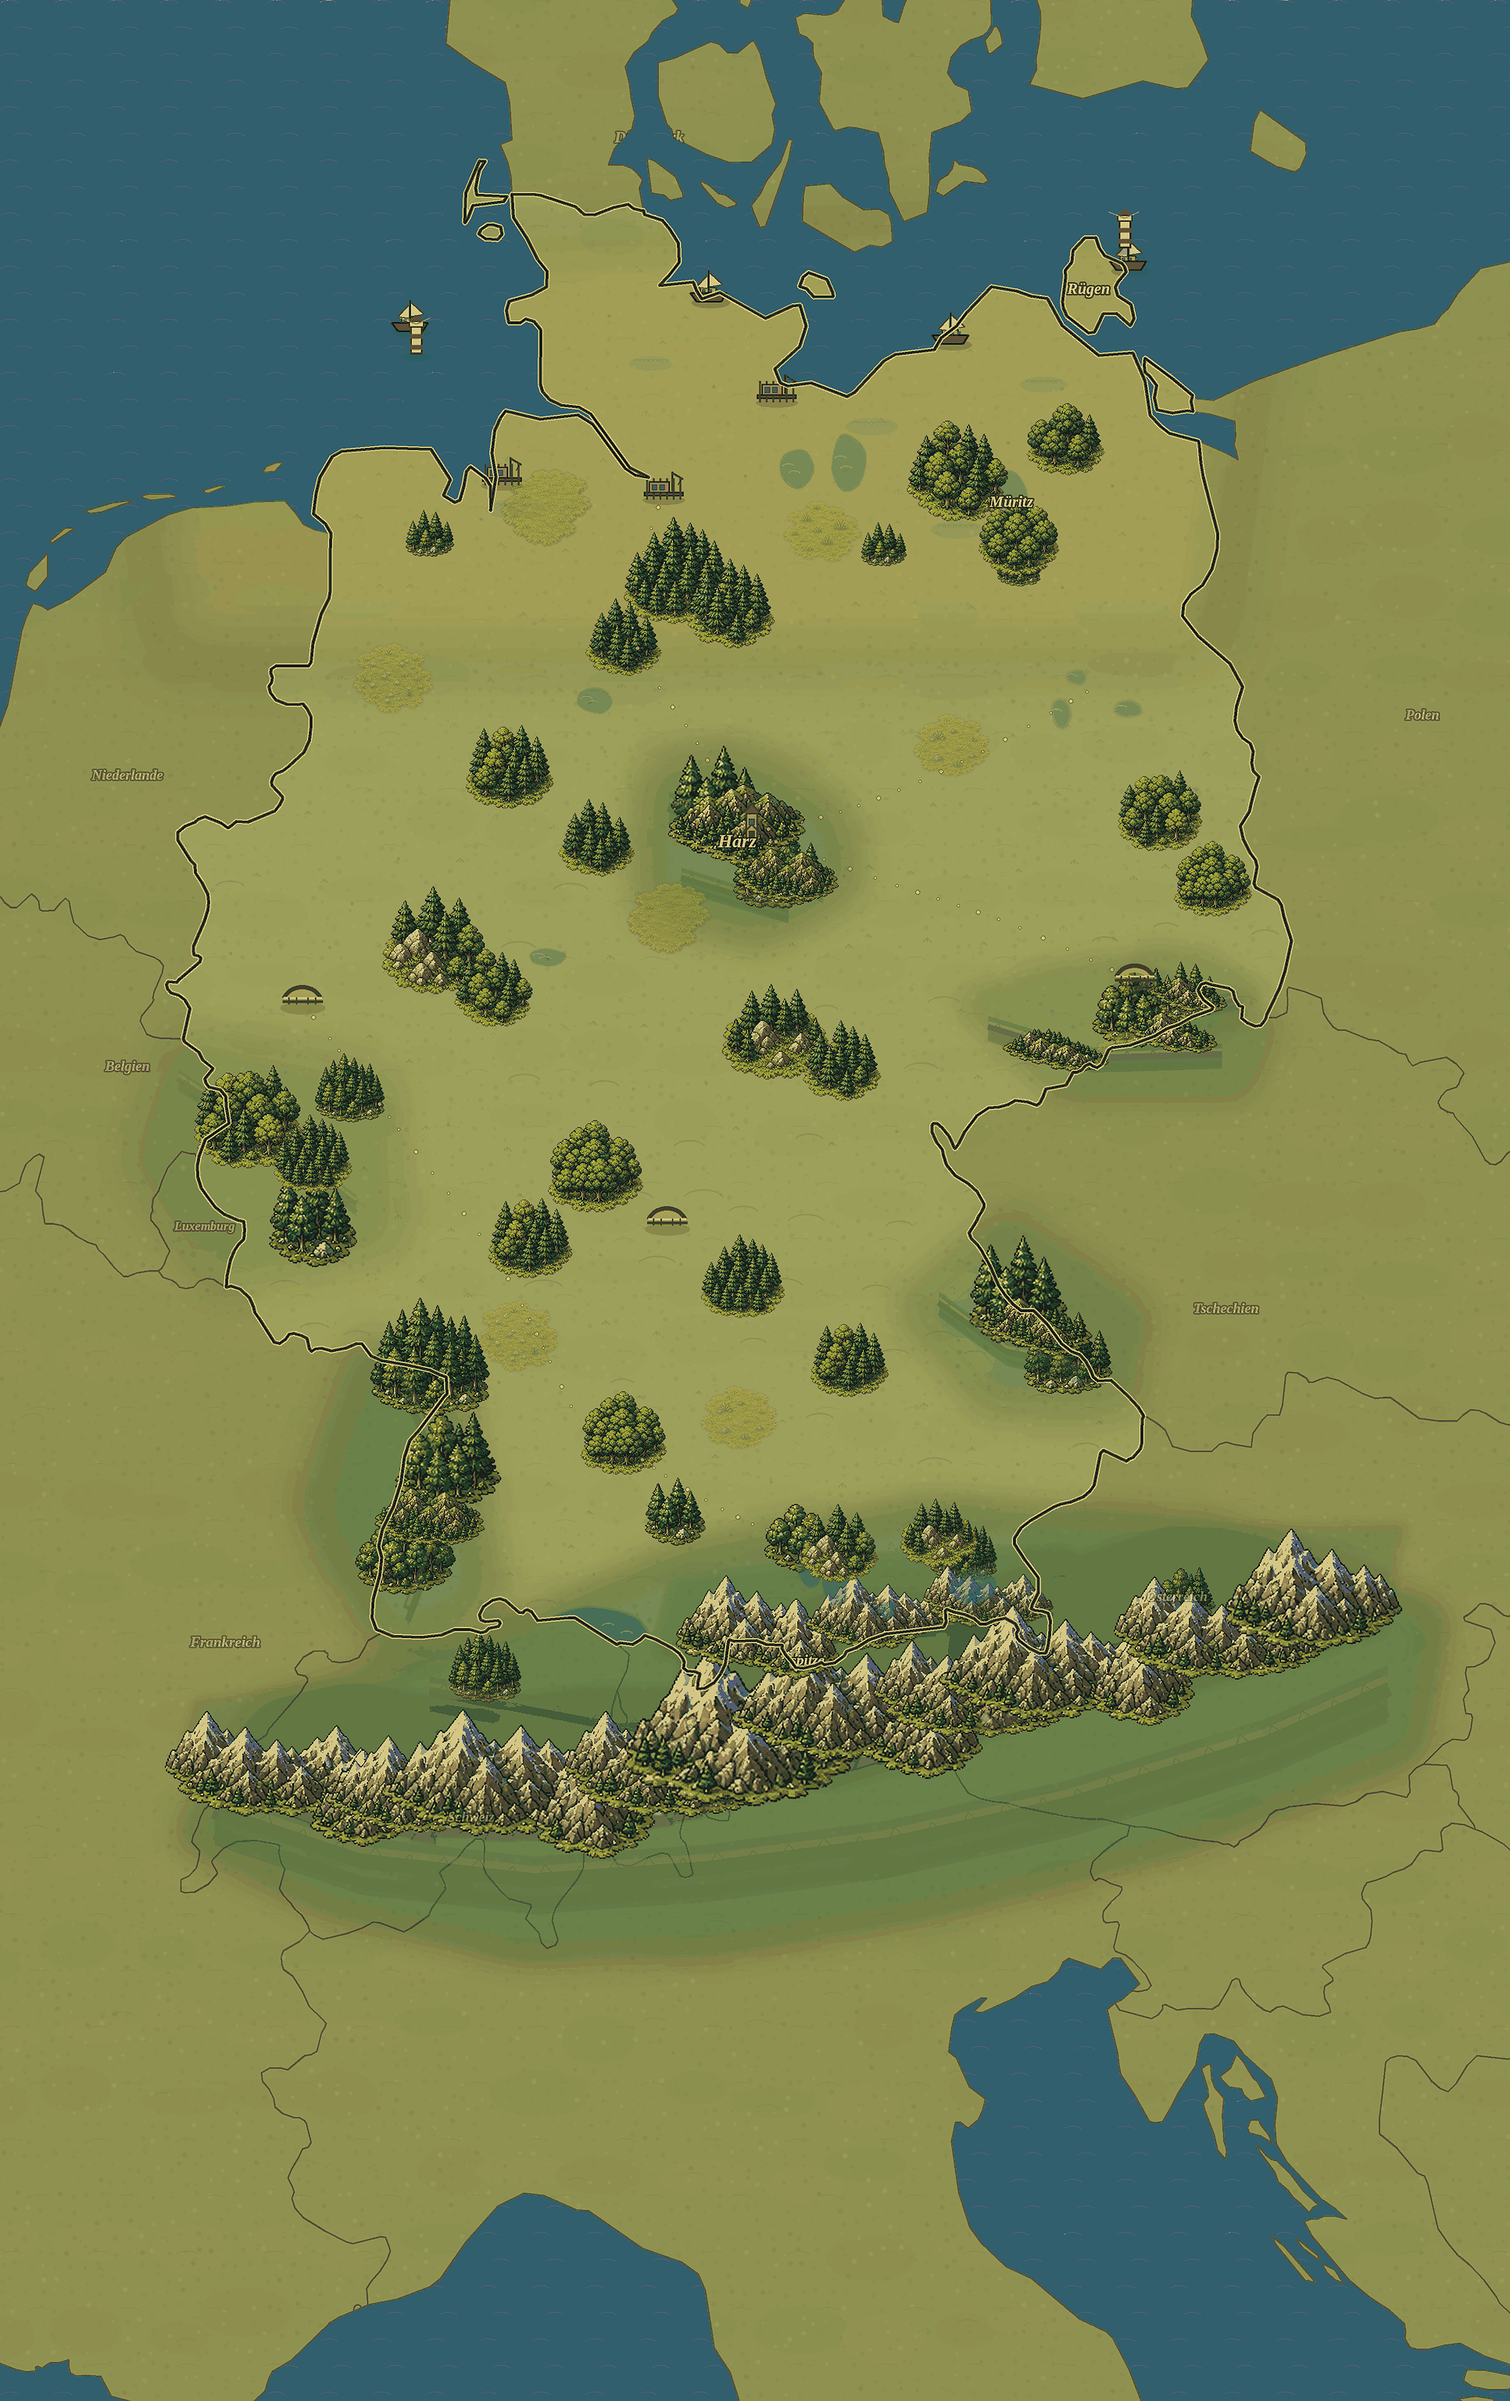
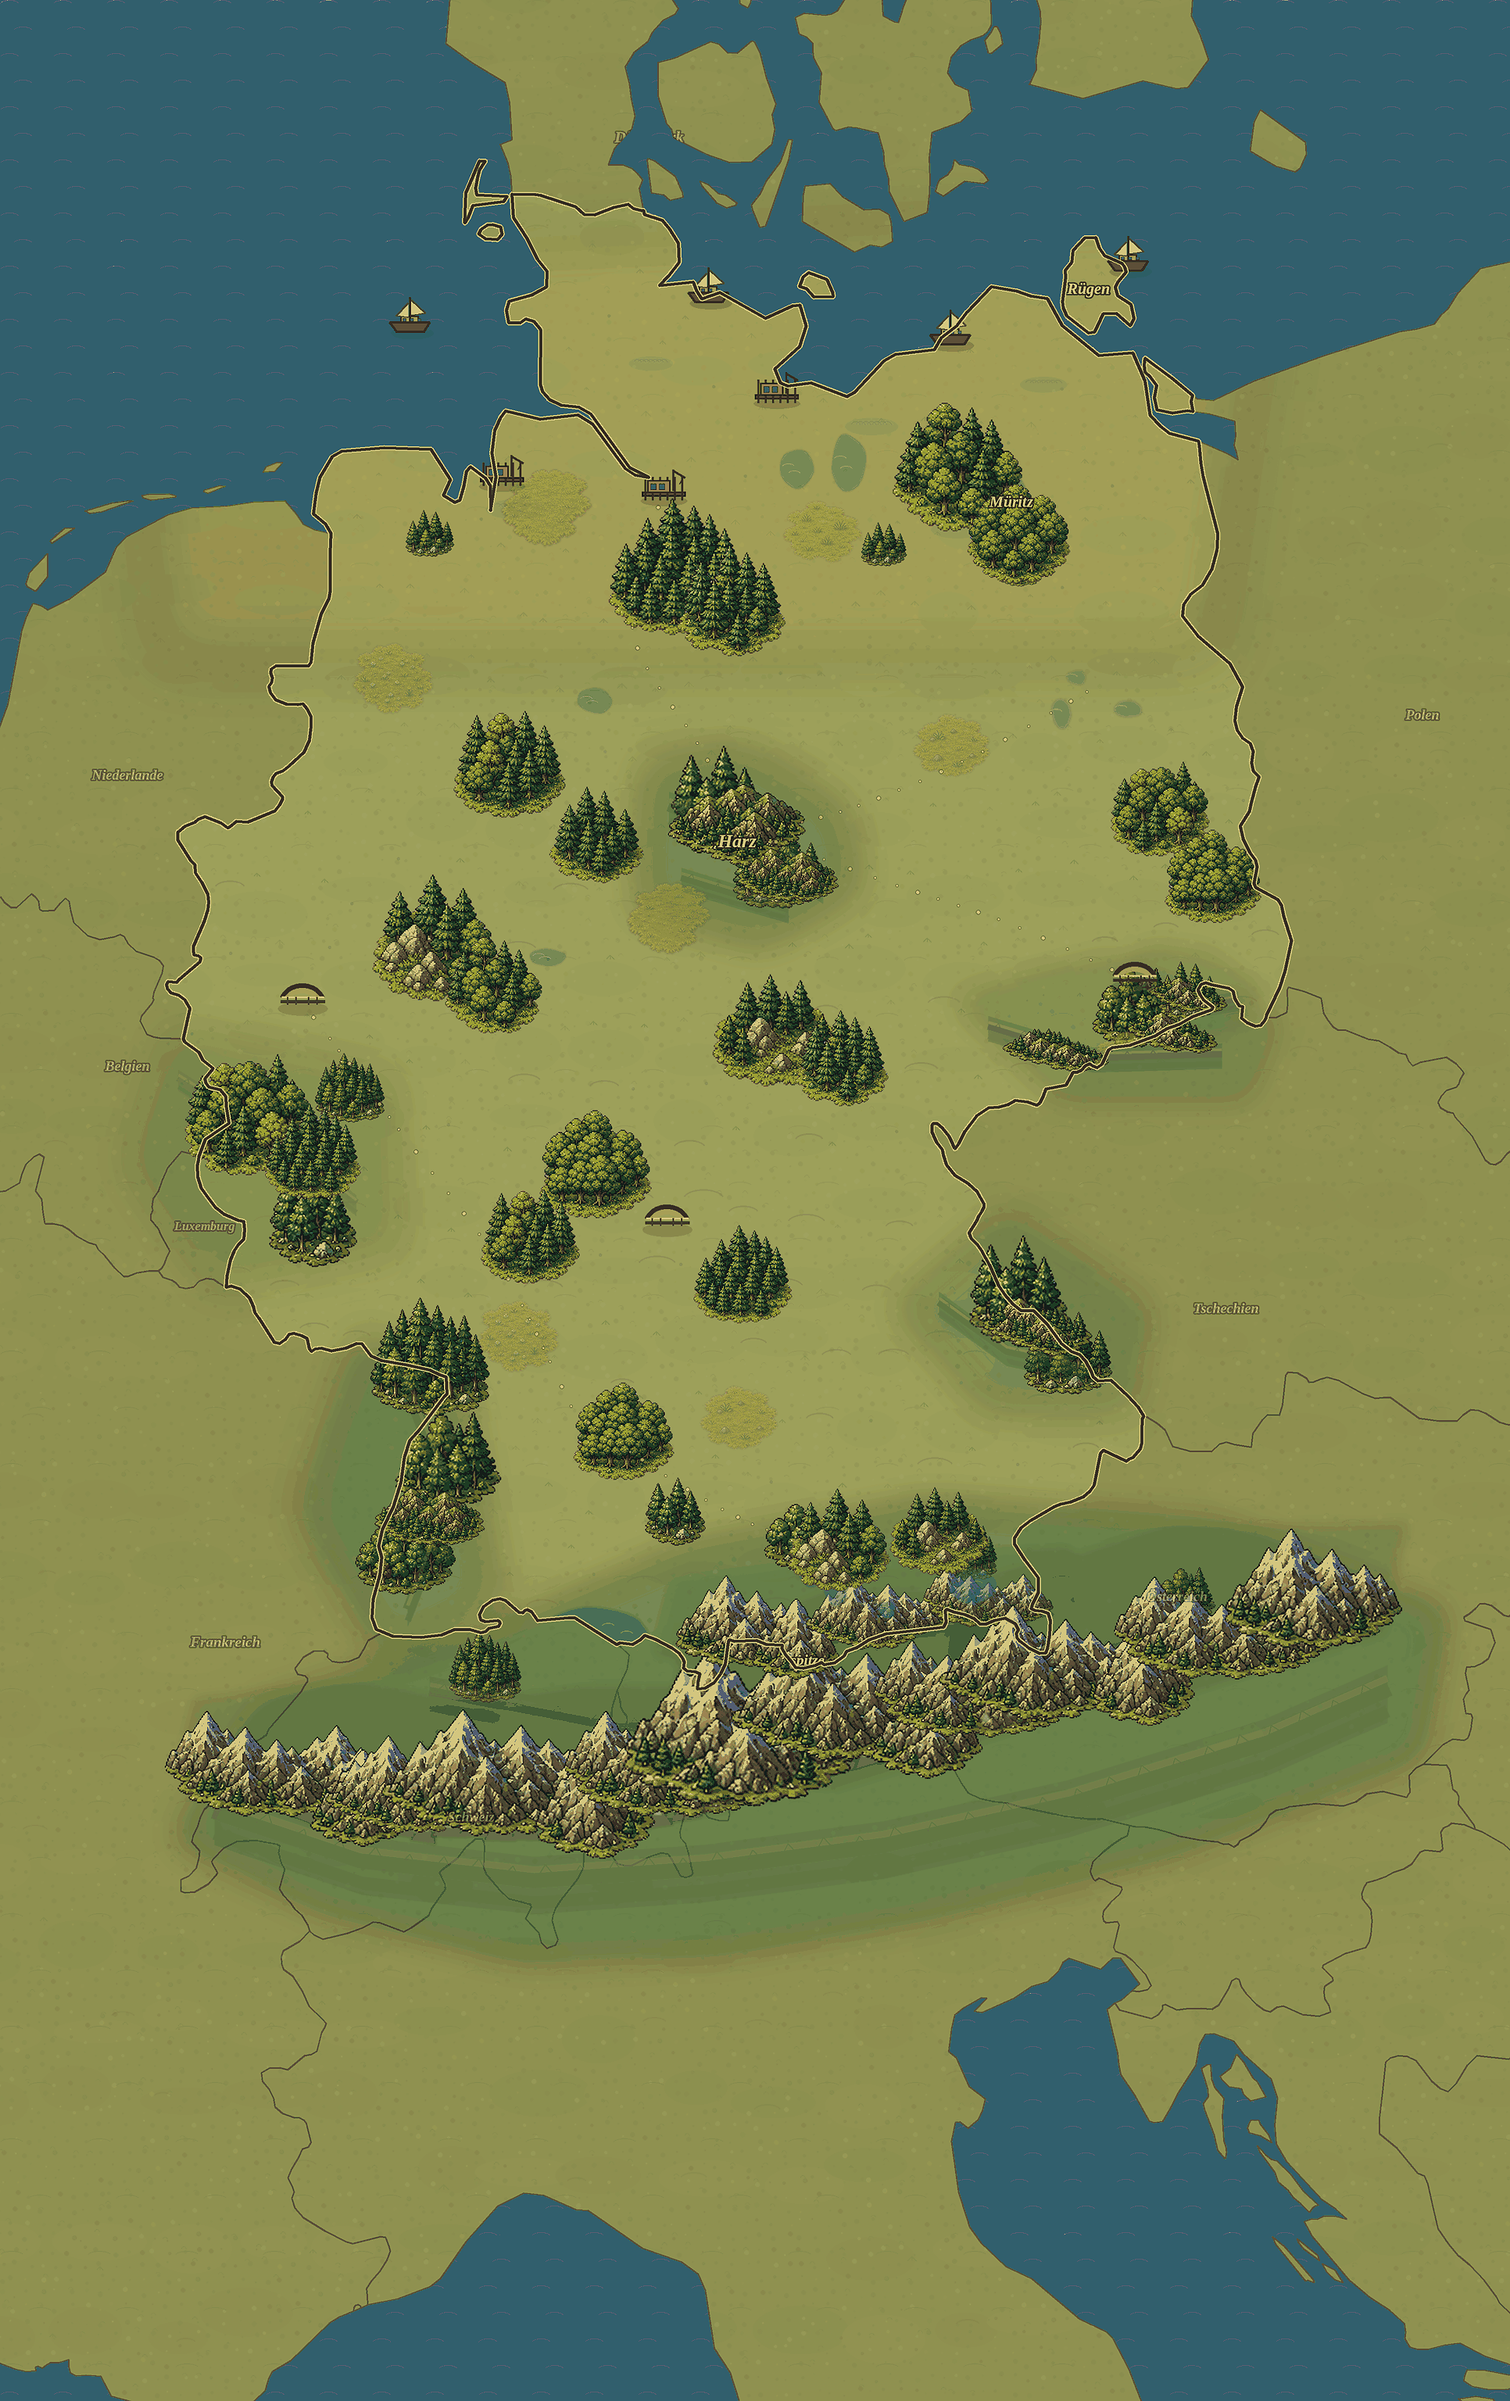
Reduce default map clutter

diff --git a/map_pipeline/compose_map.py b/map_pipeline/compose_map.py
@@ -39,8 +39,9 @@ NAMED_WATER_HIGHLIGHT = (139, 184, 181, 54)
 FOREST_SPRITE_CACHE = {}
 GLYPH_CACHE = {}
 FONT_CACHE = {}
-FOREST_MASS_VISUAL_SCALE = 1.32
-FOREST_MASS_MIN_WIDTH = 112
+FOREST_MASS_VISUAL_SCALE = 1.55
+FOREST_MASS_MIN_WIDTH = 138
+FOREST_CLUSTER_MIN_SOURCE_WIDTH = 86
 LAND_DETAIL_VISUAL_SCALE = 0.74
 LAND_DETAIL_ALPHA_SCALE = 0.48
 LAND_DETAIL_TINT_STRENGTH = 0.28
@@ -479,18 +480,16 @@ ATLAS_FOREST_MASSES = [
         "id": "lueneburg_heath",
         "label": "Lueneburg Heath",
         "clusters": [
-            ("atlas_forest_pine_dense", 10.02, 53.03, 118),
-            ("atlas_forest_pine_round", 10.46, 52.88, 98),
-            ("atlas_forest_pine_small", 9.58, 52.72, 78),
+            ("atlas_forest_pine_dense", 10.02, 53.03, 128),
+            ("atlas_forest_pine_round", 10.46, 52.88, 104),
         ],
     },
     {
         "id": "mecklenburg_lake_forests",
         "label": "Mecklenburg Lake District forests",
         "clusters": [
-            ("atlas_forest_mixed_large", 12.30, 53.52, 110),
-            ("atlas_forest_broadleaf_round", 12.80, 53.22, 88),
-            ("atlas_forest_mixed_small", 13.18, 53.70, 76),
+            ("atlas_forest_mixed_large", 12.30, 53.52, 120),
+            ("atlas_forest_broadleaf_round", 12.80, 53.22, 96),
         ],
     },
     {
@@ -498,15 +497,15 @@ ATLAS_FOREST_MASSES = [
         "label": "Spreewald and Lausitz",
         "clusters": [
             ("atlas_forest_mixed_wide", 13.95, 51.86, 92),
-            ("atlas_forest_deciduous_dense", 14.38, 51.52, 82),
+            ("atlas_forest_deciduous_dense", 14.38, 51.52, 90),
         ],
     },
     {
         "id": "teutoburg_weser",
         "label": "Teutoburg and Weser uplands",
         "clusters": [
-            ("atlas_forest_mixed_tall", 8.65, 52.08, 96),
-            ("atlas_forest_pine_small", 9.36, 51.72, 78),
+            ("atlas_forest_mixed_tall", 8.65, 52.08, 104),
+            ("atlas_forest_pine_small", 9.36, 51.72, 90),
         ],
     },
     {
@@ -514,7 +513,7 @@ ATLAS_FOREST_MASSES = [
         "label": "Sauerland and Rothaar",
         "clusters": [
             ("atlas_forest_rocky_mixed", 8.05, 51.18, 118),
-            ("atlas_forest_mixed_large", 8.52, 50.96, 82),
+            ("atlas_forest_mixed_large", 8.52, 50.96, 90),
         ],
     },
     {
@@ -547,15 +546,14 @@ ATLAS_FOREST_MASSES = [
         "clusters": [
             ("atlas_forest_pine_dense", 10.55, 49.45, 92),
             ("atlas_forest_deciduous_dense", 9.58, 48.62, 94),
-            ("atlas_forest_mixed_tall", 11.42, 49.02, 78),
         ],
     },
     {
         "id": "upper_bavaria_foothills",
         "label": "Upper Bavaria foothill forests",
         "clusters": [
-            ("atlas_forest_rocky_mixed", 11.34, 48.02, 86),
-            ("atlas_forest_rocky_pine", 12.15, 48.10, 84),
+            ("atlas_forest_rocky_mixed", 11.34, 48.02, 96),
+            ("atlas_forest_rocky_pine", 12.15, 48.10, 92),
         ],
     },
 ]
@@ -584,8 +582,8 @@ ATLAS_DETAIL_KIND_SCALE = {
     "watermill": 1.55,
     "windmill": 1.55,
 }
-MIN_ATLAS_DETAIL_WIDTH = 78
-DEFAULT_ATLAS_DETAIL_KINDS = {"bridge", "lighthouse", "port", "ship", "tower"}
+MIN_ATLAS_DETAIL_WIDTH = 86
+DEFAULT_ATLAS_DETAIL_KINDS = {"bridge", "port", "ship"}
 
 
 def audit_geography_layers():
@@ -663,8 +661,8 @@ def audit_geography_layers():
             _audit_point(errors, bounds_poly, lon, lat, f"forest:{forest_mass['id']}:{glyph_name}")
             if not str(glyph_name).startswith("atlas_forest_"):
                 errors.append(f"forest mass {forest_mass['id']} uses non-forest glyph {glyph_name}")
-            if width < 70:
-                errors.append(f"forest mass {forest_mass['id']} cluster {glyph_name} is too small to read")
+            if width < FOREST_CLUSTER_MIN_SOURCE_WIDTH:
+                errors.append(f"forest mass {forest_mass['id']} cluster {glyph_name} is too small for the default map")
     for glyph_name, lon, lat, width in ATLAS_LAND_DETAIL_PATCHES:
         _audit_point(errors, bounds_poly, lon, lat, f"land detail:{glyph_name}")
         if not str(glyph_name).startswith("atlas_land_"):

diff --git a/tests/test_map_panel_contract.py b/tests/test_map_panel_contract.py
@@ -444,8 +444,8 @@ class MapPanelContractTest(unittest.TestCase):
             "if BAKED_TOWN_DETAILS_ENABLED:",
             "for lon, lat, size in BAKED_TOWN_DETAILS:",
             "ATLAS_DETAILS = [",
-            "MIN_ATLAS_DETAIL_WIDTH = 78",
-            "DEFAULT_ATLAS_DETAIL_KINDS = {\"bridge\", \"lighthouse\", \"port\", \"ship\", \"tower\"}",
+            "MIN_ATLAS_DETAIL_WIDTH = 86",
+            "DEFAULT_ATLAS_DETAIL_KINDS = {\"bridge\", \"port\", \"ship\"}",
             "def audit_geography_layers():",
             "CITY_LANDMARK_PLACEMENT_AUDITS = [",
             '"name": "Rostock"',
@@ -481,8 +481,9 @@ class MapPanelContractTest(unittest.TestCase):
             "def _draw_atlas_dotted_route(draw, points, step):",
             "_draw_atlas_routes(canvas, proj, germany_mask)",
             "ATLAS_FOREST_MASSES = [",
-            "FOREST_MASS_VISUAL_SCALE = 1.32",
-            "FOREST_MASS_MIN_WIDTH = 112",
+            "FOREST_MASS_VISUAL_SCALE = 1.55",
+            "FOREST_MASS_MIN_WIDTH = 138",
+            "FOREST_CLUSTER_MIN_SOURCE_WIDTH = 86",
             "LAND_DETAIL_VISUAL_SCALE = 0.74",
             "LAND_DETAIL_ALPHA_SCALE = 0.48",
             "LAND_DETAIL_TINT_STRENGTH = 0.28",
@@ -496,6 +497,8 @@ class MapPanelContractTest(unittest.TestCase):
             "ATLAS_LAND_DETAIL_PATCHES = [",
             '"atlas_land_grass_patch"',
             '"atlas_land_flower_meadow"',
+            "if width < FOREST_CLUSTER_MIN_SOURCE_WIDTH:",
+            "forest mass {forest_mass['id']} cluster {glyph_name} is too small for the default map",
             "def _draw_atlas_forest_masses(canvas, proj, land_mask):",
             "display_width = max(FOREST_MASS_MIN_WIDTH, int(width * FOREST_MASS_VISUAL_SCALE))",
             "def _draw_atlas_land_detail_patches(canvas, proj, germany_mask):",

diff --git a/docs/active-map-backlog.md b/docs/active-map-backlog.md
@@ -90,6 +90,7 @@
 - [ ] Визуально откалибровать `mountain_glyphs` по реальным relief extents: automated audit теперь ловит грубые ошибки placement, но scale/edge/art still need human screenshot/geography review; Harz/Erzgebirge/Black Forest/Bavarian Forest не должны расползаться за свои области.
 - [ ] REGRESSION / Harz readability: Harz сейчас слишком маленький и незаметный среди налепленных деталей. Для readability его можно сделать визуально крупнее/сильнее, чем буквальный масштаб, но центр должен оставаться географически правильным, чтобы было быстро понятно: "здесь Harz, здесь есть канатные дороги".
 - [x] Harz readability first pass: Harz polygon/fill/ridge bands/glyphs усилены и центрированы вокруг реального региона; castle-like house details убраны из default underlay, чтобы Harz не терялся в мелком шуме. Оставить regression открытым до mobile review, потому что транспортный cluster всё ещё частично перекрывает Harz label.
+- [x] #72 Bounded clutter pass: default atlas details теперь оставляют только крупные `bridge`/`port`/`ship` landmarks, `MIN_ATLAS_DETAIL_WIDTH` поднят до `86`, forest masses укрупнены до `FOREST_MASS_VISUAL_SCALE = 1.55` / `FOREST_MASS_MIN_WIDTH = 138`, а мелкие forest clusters ниже `86` source px запрещены audit-ом или удалены.
 - [ ] Унифицировать размер подписей городов: кроме Berlin как столицы, остальные city labels должны быть примерно одного визуального ранга. Если подпись слишком длинная или перегружает карту, лучше скрыть/убрать второстепенный label, чем делать случайно мелкий текст.
 - [x] #73 Убрать bare secondary city labels с default map: подписи без pictogram получили отдельный порог `BARE_CITY_LABEL_ZOOM := 1.55`, а контрактный тест проверяет, что дефолтно видимые city/capital labels имеют существующую outlined city icon.
 - [x] City label typography first pass: Berlin уменьшен с 18 до 17, town labels подняты с 12 до 14, чтобы разница была менее случайной; второстепенные города всё ещё скрываются до zoom `1.20`.

diff --git a/docs/map-orchestrator-progress.md b/docs/map-orchestrator-progress.md
@@ -1083,3 +1083,27 @@ Checks:
   - `/tmp/cable-world-web-map/desktop-1280x800-after-drag.png`
 
 Self-audit: Harz is clearly more visible on desktop and small house clutter is reduced, but this is still not `8/10`. On mobile, Harz can still be visually busy because the transport cluster overlaps the region; Alps/elevation accuracy remains the bigger blocker.
+
+## Iteration 2026-05-31 22:05
+
+Implemented for #72:
+
+- Reduced default object clutter in `map_pipeline.compose_map`:
+  - `DEFAULT_ATLAS_DETAIL_KINDS` now renders only `bridge`, `port` and `ship`;
+  - `MIN_ATLAS_DETAIL_WIDTH` increased from `78` to `86`;
+  - `tower` and `lighthouse` remain available as explicit data, but no longer render on the default underlay.
+- Made forest masses larger and less dusty:
+  - `FOREST_MASS_VISUAL_SCALE = 1.55`;
+  - `FOREST_MASS_MIN_WIDTH = 138`;
+  - added `FOREST_CLUSTER_MIN_SOURCE_WIDTH = 86` and wired it into `audit_geography_layers()`;
+  - removed the smallest repeated forest clusters from Lueneburg, Mecklenburg and Franconian/Swabian placements;
+  - raised remaining small forest cluster widths above the new guardrail.
+- Regenerated `assets/map/germany_styled.png` from the reproducible compositor.
+
+Checks:
+
+- `python3 -m unittest tests.test_map_panel_contract tests.test_map_geography_audit`: 14 tests OK, 2 skipped under plain Python where geo dependencies are unavailable.
+- `uv run python -m unittest tests.test_map_geography_audit tests.test_map_panel_contract`: 14 tests OK.
+- `uv run python -m map_pipeline.compose_map`: regenerated `assets/map/germany_styled.png`, `1932x3072`, `3,159,626` bytes.
+
+Self-audit: this is a bounded clutter reduction, not a full art pass. The full PNG now reads with fewer tiny object glyphs and larger forest masses, but some land texture dots and dotted route marks can still look busy in the raw asset. Visual risk is still medium until a runtime mobile/desktop screenshot review confirms the default zoom composition with transport markers on top.
